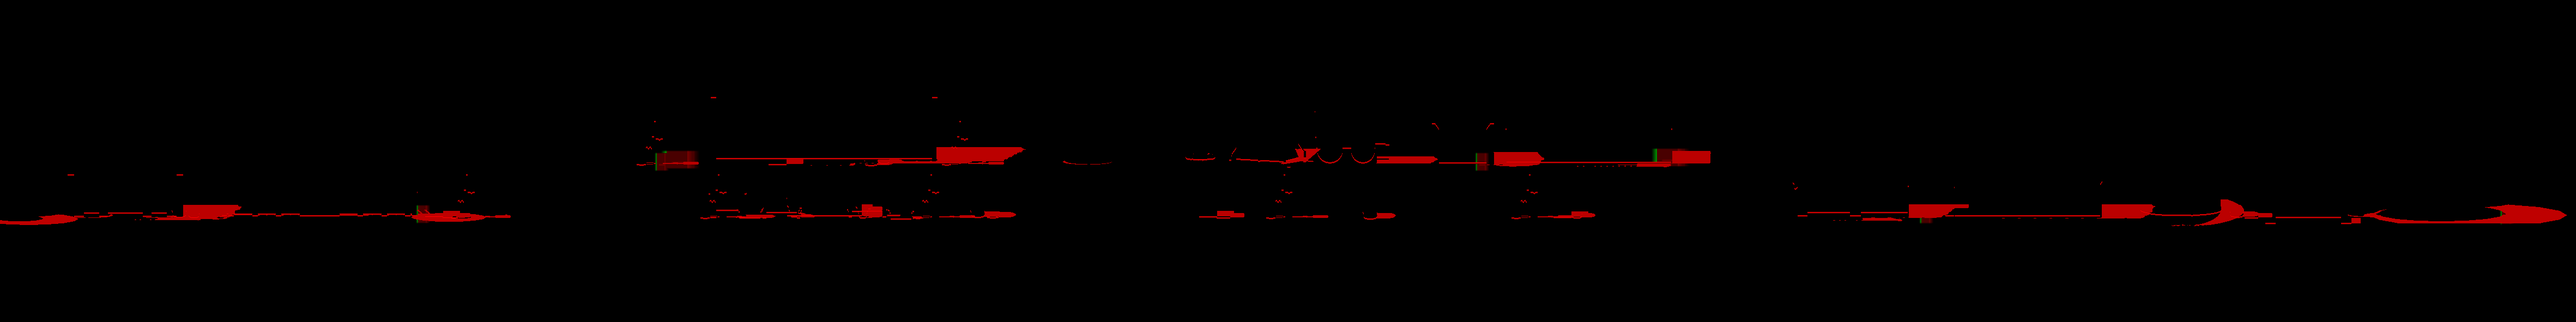
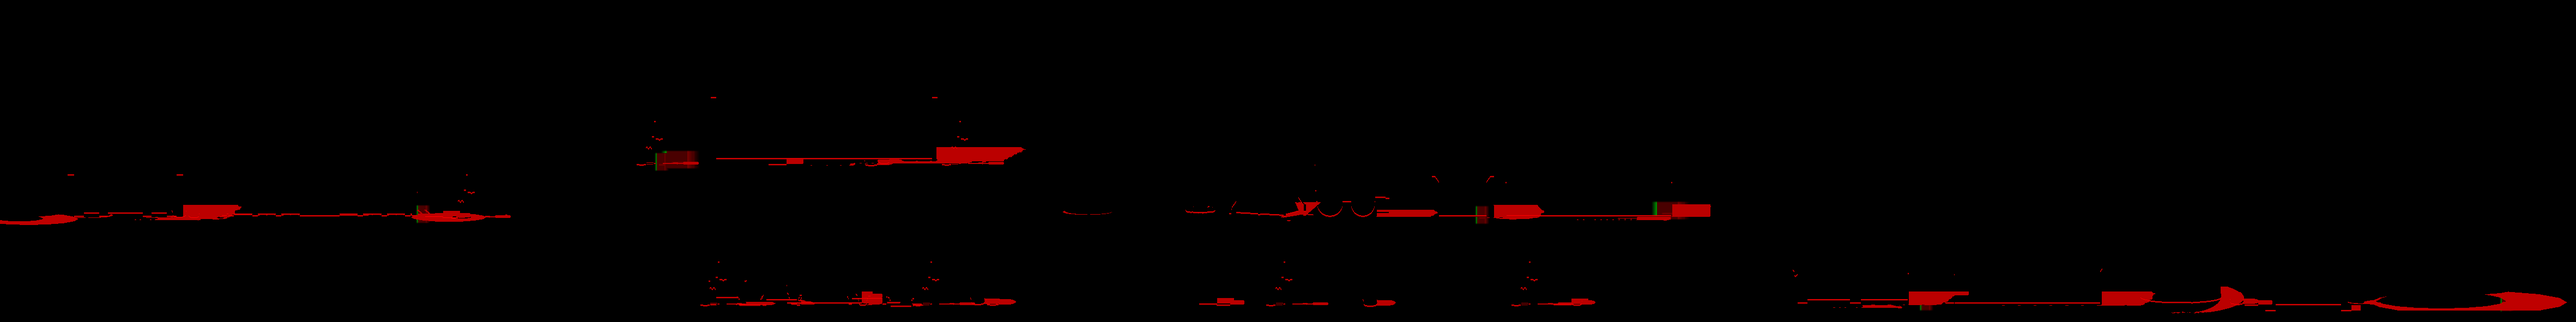
Town: back to the fork splitting up and down (owner: undo plan 1)
Reverts the level lower street and its re-bake.

Claude-Session: https://claude.ai/code/session_01FzDataYedfiK9tzFLcKdoU

diff --git a/docs/work/town-art/MEMO.md b/docs/work/town-art/MEMO.md
@@ -164,3 +164,5 @@
   → 지금 구조: 갈림길(x 1850)에서 윗길은 본관 테라스로 오르고(235), 아랫길은 광장으로 내려감(750). 어느 길을 쭉 이을지 오너에게 물음(route_opts 안 1·2).
 - 2026-11-09: "1안해보자"
   → 적용: 아랫길 높이 = 왼쪽 길 높이(LOWF = G, 320px 올림). 윗길은 갈림길에서 본관 테라스(TTOP)로 올라가 STX1(6150)까지 그 높이로 쭉, 그 뒤 비탈로 아랫길에 합류. 본관 오른쪽 야영지(모닥불·텐트·마차·우물·헛간)도 테라스 높이로. 언덕 면 높이 약 150px — 언덕 그림은 아랫부분만 보임, 다시 맞출 예정.
+- 2026-11-09: "씁 스샷 보니 좆같은데" → (선택) "1안 자체를 되돌리기"
+  → 적용: 1안(아랫길 높이 = 왼쪽 길) 되돌림. 길 높이·야영지·바닥 조명 맵 모두 1안 전으로. 갈림길 구조는 그대로(위아래로 갈라짐).

diff --git a/docs/test/BOSS_LOG.md b/docs/test/BOSS_LOG.md
@@ -9,4 +9,3 @@
 - 2026-11-08 40702b5 BOSS boss cleared=true time=20.9 hp_lost=0/85 party_down=false
 - 2026-11-08 80a5a60 BOSS boss cleared=true time=23.1 hp_lost=3/85 party_down=false
 - 2026-11-09 7f7980b BOSS boss cleared=true time=21.3 hp_lost=0/85 party_down=false
-- 2026-11-09 e5d3e3b BOSS boss cleared=true time=21.6 hp_lost=3/85 party_down=false
